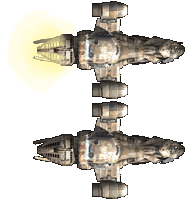
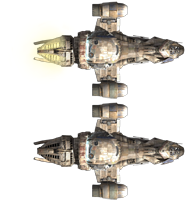
curving rocket working! Two known bugs, need to reconfigure pathing to points BEHIND ship. Ship jitters for a frame when clicking new path while flying.

diff --git a/js/rocket.js b/js/rocket.js
@@ -75,33 +75,16 @@ $('#wrapper').on('click', function(e){
 	//console.log('mouse: '+mouseX+', '+mouseY)
 	var absAngle  = getAngle(mouseX,Rocket.centerX,mouseY,Rocket.centerY);
 	var angleDistance = Math.sqrt((Math.pow((mouseX - (Rocket.left+Rocket.halfX)),2)) + (Math.pow((mouseY-(Rocket.top+Rocket.halfY)),2)));
-	console.log('abs Distance: '+angleDistance);
-	console.log('Angle: '+absAngle);
-
+	//console.log('abs Distance: '+angleDistance);
+	//console.log('Angle: '+absAngle);
 	var cp2Angle = (-180- Rocket.angle) +(absAngle*2);
 	if(cp2Angle < -360)
 		cp2Angle+=360;
 	if(cp2Angle > 360)
 		cp2Angle -=360;
 
-	console.log('cp2Angle: '+cp2Angle);
-	/*
-		   0 =  0.5    0/180 - 0.5 =  -0.5
-		 -45 = 0.25   45/180 - 0.5 = -0.25
-		 -90 =    0   90/180 - 0.5 =     0
-		-135 = 0.25  135/180 - 0.5 =  0.25
-		-180 =  0.5  180/180 - 0.5 =   0.5
-		 135 = 0.25  135/180 - 0.5 =  0.25
-		  90 =    0   90/180 - 0.5 =     0
-		  45 = 0.25   45/180 - 0.5 =  0.25
-		   0 =  0.5    0/180 - 0.5 =   0.5
-	*/
-	var distRatio = Math.abs(absAngle/180) - 0.5;
-	// 99 /90/2
-	console.log('DistRatio: '+distRatio);
+	var distRatio = Math.abs((Math.abs(Rocket.angle) - Math.abs(absAngle))/180);
 	var cp2Distance = angleDistance* distRatio;
-	//var cp2Distance = angleDistance*.5;
-	//console.log('cp2Dist: '+cp2Distance);
 	var cp1X,cp1Y,cp2X,cp2Y;
 	cp1X = Rocket.centerX + cp2Distance* (Math.cos(Math.radians(Rocket.angle)));
 	cp1Y = Rocket.centerY + cp2Distance* (Math.sin(Math.radians(Rocket.angle)));
@@ -114,13 +97,13 @@ $('#wrapper').on('click', function(e){
 
 	
 	//Red Line
-	$(this).append('<div class="line" style="transform-origin:left center;width:'+(Math.round(angleDistance))+'px;top:'+(Rocket.centerY)+'px;left:'+(Rocket.centerX)+'px;transform:rotate('+(Math.round(absAngle))+'deg);"></div>');
-	//Blue Line
-	$(this).append('<div class="line" style="background:#0000FF;transform-origin:left center;width:'+Math.round(cp2Distance)+'px;top:'+(mouseY)+'px;left:'+(mouseX)+'px;transform:rotate('+(Math.round(cp2Angle))+'deg);"></div>');
-	$(this).append('<div class="line" style="background:#0000FF;transform-origin:left center;width:'+(+cp2Distance)+'px;top:'+(Rocket.centerY)+'px;left:'+(Rocket.centerX)+'px;transform:rotate('+(Rocket.angle)+'deg);"></div>');
+	// $(this).append('<div class="line" style="transform-origin:left center;width:'+(Math.round(angleDistance))+'px;top:'+(Rocket.centerY)+'px;left:'+(Rocket.centerX)+'px;transform:rotate('+(Math.round(absAngle))+'deg);"></div>');
+	// //Blue Line
+	// $(this).append('<div class="line" style="background:#0000FF;transform-origin:left center;width:'+Math.round(cp2Distance)+'px;top:'+(mouseY)+'px;left:'+(mouseX)+'px;transform:rotate('+(Math.round(cp2Angle))+'deg);"></div>');
+	// $(this).append('<div class="line" style="background:#0000FF;transform-origin:left center;width:'+(+cp2Distance)+'px;top:'+(Rocket.centerY)+'px;left:'+(Rocket.centerX)+'px;transform:rotate('+(Rocket.angle)+'deg);"></div>');
 	
 	//console.log(curve.getLUT());
-	$('body').append('<div class="waypoint" style="background:#ff0000;top:'+(cp1Y-5) +'px;left:'+(cp1X-5)+'px;"></div>');
+	// $('body').append('<div class="waypoint" style="background:#ff0000;top:'+(cp1Y-5) +'px;left:'+(cp1X-5)+'px;"></div>');
 	//$('body').append('<div class="waypoint" style="background:#ff0000;top:'+(polarY-5) +'px;left:'+(polarX-5)+'px;"></div>');
 	for(i=0;i<curveP.length;i+=4){
 		$('body').append('<div class="waypoint" style="top:'+(curveP[i].y-5) +'px;left:'+(curveP[i].x-5)+'px;"></div>');
@@ -134,6 +117,7 @@ $('#wrapper').on('click', function(e){
 		var t = progress/time;
 		var coords = curve.get(t);
 		var nextAngle = getAngle(coords.x,oldCoords.x,coords.y,oldCoords.y);
+		Rocket.obj.addClass('moving');
 		//console.log(coords);
 		Rocket.angle = nextAngle;
 		Rocket.obj.css({left: coords.x-Rocket.halfY,top:coords.y-Rocket.halfX,transform:'rotate('+nextAngle+'deg)'});
@@ -142,8 +126,9 @@ $('#wrapper').on('click', function(e){
 		if(progress < time)
 			window.requestAnimationFrame(move);
 		else {
+			Rocket.obj.removeClass('moving');
 			//console.log('Final Angle: '+Rocket.angle);
-			console.log(' ');
+			//console.log(' ');
 		}
 
 	}

diff --git a/less/style.less b/less/style.less
@@ -279,6 +279,11 @@ img {
 	transform-origin: center center;
 	z-index: 999;
 	transform:rotate(-90deg);
+	&.moving {
+		#rocket-img {
+			background-position: 0% 0;
+		}
+	}
 	#rocket-img {
 		position: relative;
 		width: 185px;
@@ -290,9 +295,6 @@ img {
 		background-position: 0% 100%;
 		z-index: 2;
 		user-select:none;
-		&.glow {
-			background-position: 0% 0;
-		}
 	}
 	#flames {
 		position: absolute;

diff --git a/css/style.css b/css/style.css
@@ -275,6 +275,9 @@ img {
   z-index: 999;
   transform: rotate(-90deg);
 }
+#rocket.moving #rocket-img {
+  background-position: 0% 0;
+}
 #rocket #rocket-img {
   position: relative;
   width: 185px;
@@ -286,9 +289,6 @@ img {
   background-position: 0% 100%;
   z-index: 2;
   user-select: none;
-}
-#rocket #rocket-img.glow {
-  background-position: 0% 0;
 }
 #rocket #flames {
   position: absolute;
